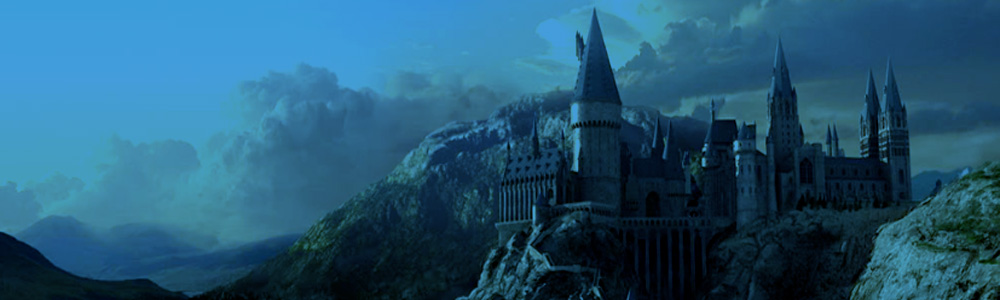
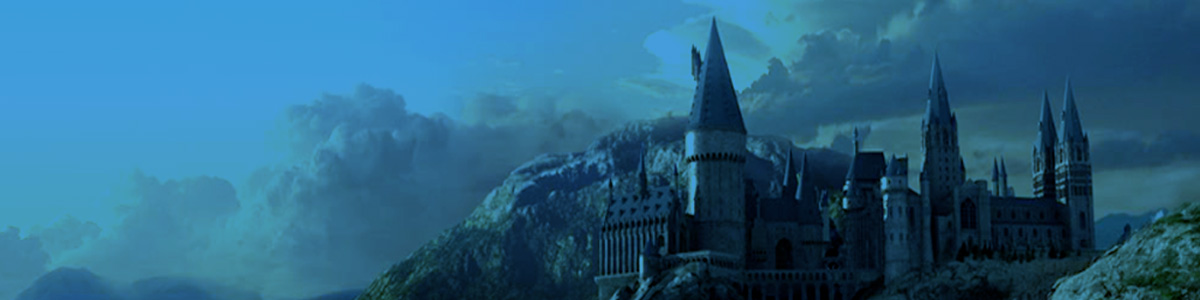
banniere full screen + responsive

diff --git a/style.css b/style.css
@@ -1,13 +1,19 @@
 header {
-  background-image:url(https://raw.githubusercontent.com/WildCodeSchool/reims-1018-jee-le-livre/ju_blog/images/home-ban.jpg);
-  background-repeat:no-repeat;
-  height: 400px;
+  display: flex;
+  flex-direction: column;
+  justify-content: center;
+  height: 32vh;
+  background: url(https://raw.githubusercontent.com/WildCodeSchool/reims-1018-jee-le-livre/ju_blog/images/home-ban.jpg);
+  background-position: center;
+  background-repeat: no-repeat;
+  -webkit-background-size: cover;
+  background-size: cover;
   text-align: center;
   color: white;
 }
 
 h1 {
-  padding-top: 10%
+  padding-top: 5%
 }
 
 img {

diff --git a/sprint0.html b/sprint0.html
@@ -17,15 +17,14 @@
 </head>
 
 <body>
-  <div class = "container">
     <header>
 
-        <h1>Le livre dont vous êtes le sorcier/la sorcière</h1>
-        <p>Voici notre blog afin de vous faire suivre l'actualité de notre projet, disponible sur GitHub : <a href="https://github.com/WildCodeSchool/reims-1018-java-le-livre">reims-1018-java-le-livre</a>.</p>
+        <h1>Votre aventure à Poudlard, <br>le blog</h1>
+        <p>Le livre dont vous êtes le sorcier/la sorcière</p>
 
     </header>
 
-    <main>
+    <main class = "container">
 
         <h2>Sprint 0</h2>
 

diff --git a/home.html b/home.html
@@ -19,7 +19,7 @@
 <body>
     <header>
 
-        <h1>Votre aventure à Poudlard, le blog</h1>
+        <h1>Votre aventure à Poudlard, <br>le blog</h1>
         <p>Le livre dont vous êtes le sorcier/la sorcière</p>
 
     </header>
